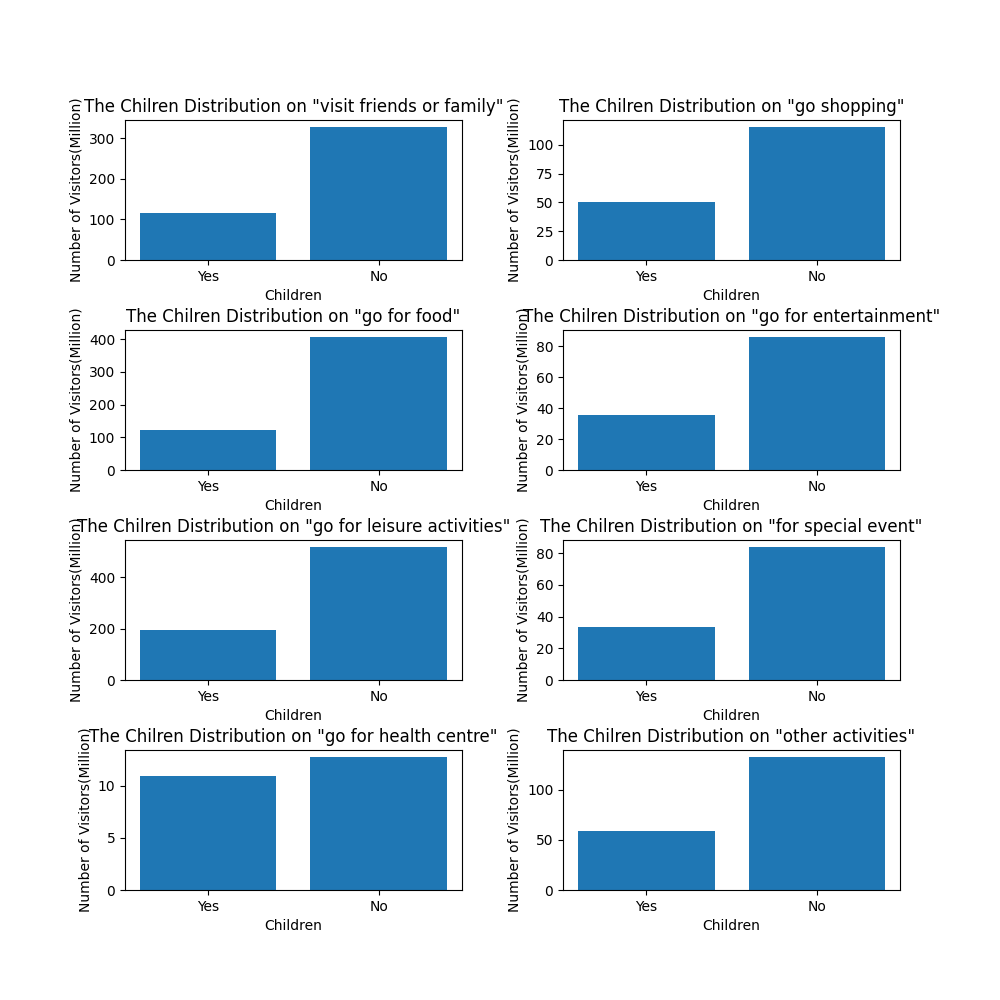
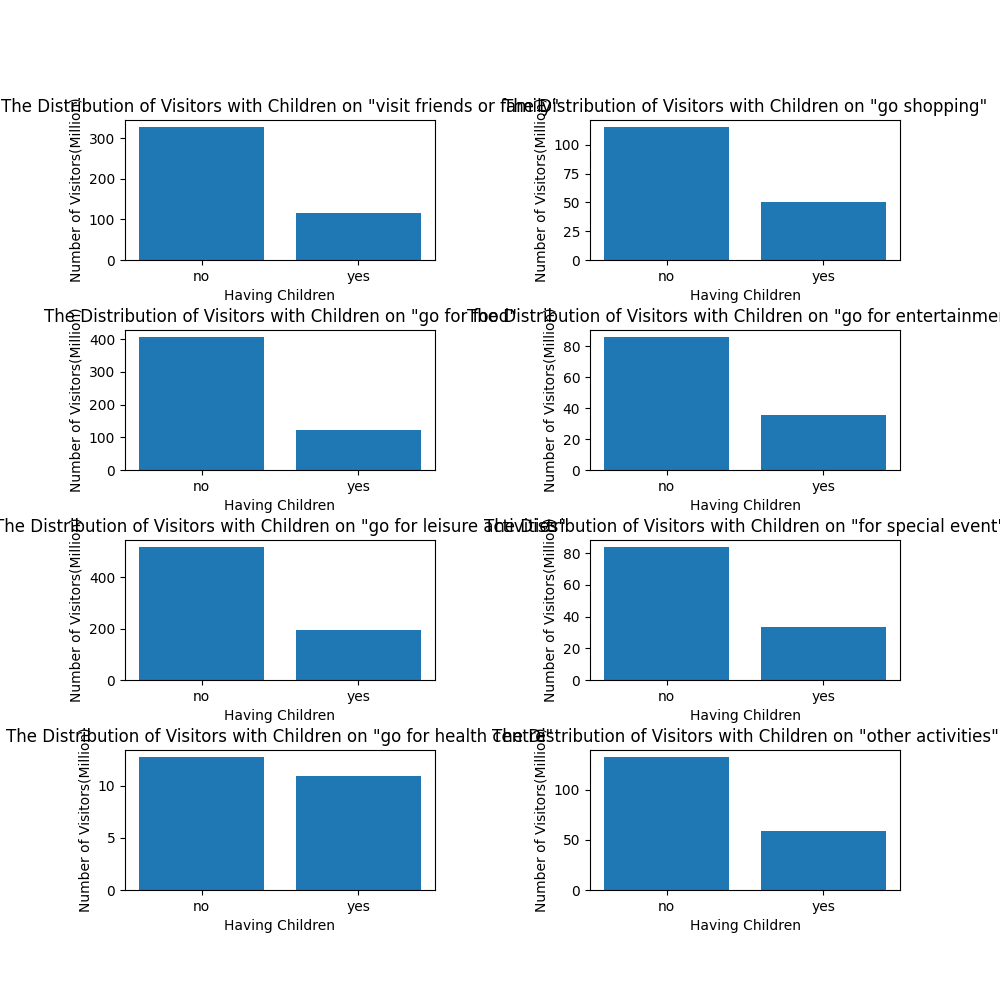
Modify the code to adjust the new read function and add a figure about the relation between the visitors who have children and purposes.

diff --git a/overall_purpose/overallPurpose.py b/overall_purpose/overallPurpose.py
@@ -37,10 +37,7 @@ def classifyPurpose(input):
     else:
         return "other activities"
 #To show the relation between age and purpose
-purpose_data = rfd.readAction('age_action', 'activity')
-#Add a column named total to show the number of people who took different type of actions.
-purpose_data['total'] = purpose_data['16-24'] + purpose_data['25-34'] + purpose_data['35-44'] + \
-                        purpose_data['45-54'] + purpose_data['55-64'] + purpose_data['65+']
+purpose_data = rfd.readAction('action', 'activity', 'age')
 purpose_data['Action'] = purpose_data['Action'].apply(lambda x:classifyPurpose(x))
 all_year_purpose = purpose_data.groupby(['Year', 'Action']).sum().reset_index()
 plt.figure(figsize=(8, 8))
@@ -53,13 +50,13 @@ speicalData=all_year_purpose[(all_year_purpose['Action']=='for special event')]
 healthCentreData=all_year_purpose[(all_year_purpose['Action']=='go for health centre')]
 otherData=all_year_purpose[(all_year_purpose['Action']=='other activities')]
 #Draw the line chart to show the trend of visitors for differnet purposes
-plt.plot(visitData['Year'], visitData['total'], marker='o')
-plt.plot(shoppingData['Year'], speicalData['total'], marker='o')
-plt.plot(foodData['Year'], foodData['total'], marker='o')
-plt.plot(entertainmentData['Year'], entertainmentData['total'], marker='o')
-plt.plot(speicalData['Year'], speicalData['total'], marker='o')
-plt.plot(healthCentreData['Year'], healthCentreData['total'], marker='o')
-plt.plot(otherData['Year'], otherData['total'], marker='o')
+plt.plot(visitData['Year'], visitData['Count'], marker='o')
+plt.plot(shoppingData['Year'], speicalData['Count'], marker='o')
+plt.plot(foodData['Year'], foodData['Count'], marker='o')
+plt.plot(entertainmentData['Year'], entertainmentData['Count'], marker='o')
+plt.plot(speicalData['Year'], speicalData['Count'], marker='o')
+plt.plot(healthCentreData['Year'], healthCentreData['Count'], marker='o')
+plt.plot(otherData['Year'], otherData['Count'], marker='o')
 plt.legend(attributes)
 plt.xlabel('Years')
 plt.ylabel('Number of Visitors(Million)')
@@ -69,20 +66,18 @@ plt.show()
 #Calculate the sum of visitors who took different actions in recent 10 years.
 component=all_year_purpose.groupby('Action').sum().reset_index()
 plt.figure(figsize=(8, 8))
-plt.pie(component['total'], autopct='%0.1f%%', explode=(0, 0, 0.05, 0, 0.05, 0, 0, 0.05))
+plt.pie(component['Count'], autopct='%0.1f%%', explode=(0, 0, 0.05, 0, 0.05, 0, 0, 0.05))
 plt.legend(component['Action'])
 plt.title('The Composition of Visitors for Different Purpose')
 plt.savefig('compositionPurpose.png')
 plt.show()
 plt.figure(figsize=(10, 10))
 #The age distribution for different purposes
-component=component.drop(['Year', 'total'], axis=1)
+component=purpose_data.groupby(['Action', 'Attribute']).sum().reset_index()
 for i in range(1, len(attributes)+1):
     ax=plt.subplot(4, 2, i)
-    list=component[component['Action']==attributes[i-1]].drop('Action', axis=1).values
-    plt.bar(range(len(list[0])), list[0])
-    ax.set_xticks(range(len(list[0])))
-    ax.set_xticklabels(visitor)
+    tem = component[component['Action'] == attributes[i - 1]]
+    plt.bar(tem['Attribute'], tem['Count'])
     plt.title('The Age Distribution on \"'+attributes[i-1]+'\"')
     plt.xlabel('Age')
     plt.ylabel('Number of Visitors(Million)')
@@ -91,22 +86,16 @@ plt.savefig('ageDistribution.png')
 plt.show()
 
 #To show the relation between purpose and if the visitors has cars
-purpose_data = rfd.readAction('cars_action', 'activity')
-visitor=['access to car (1+)', 'no access to car (0)']
-#Add a column named total to show the number of people who took different type of actions.
+purpose_data = rfd.readAction('action', 'activity', 'cars')
 purpose_data['Action'] = purpose_data['Action'].apply(lambda x:classifyPurpose(x))
-all_year_purpose = purpose_data.groupby(['Year', 'Action']).sum().reset_index()
 #Calculate the sum of visitors who took different actions in recent 10 years.
-component=all_year_purpose.groupby('Action').sum().reset_index()
+component=purpose_data.groupby(['Action', 'Attribute']).sum().reset_index()
 #The car holders distribution for different purposes
 plt.figure(figsize=(10, 10))
-component=component.drop(['Year'], axis=1)
 for i in range(1, len(attributes)+1):
     ax=plt.subplot(4, 2, i)
-    list=component[component['Action']==attributes[i-1]].drop('Action', axis=1).values
-    plt.bar(range(len(list[0])), list[0])
-    ax.set_xticks(range(len(list[0])))
-    ax.set_xticklabels(visitor)
+    tem = component[component['Action'] == attributes[i - 1]]
+    plt.bar(tem['Attribute'], tem['Count'])
     plt.title('The Distribution of Car Holder on \"'+attributes[i-1]+'\"')
     plt.xlabel('Car Holder')
     plt.ylabel('Number of Visitors(Million)')
@@ -116,22 +105,16 @@ plt.show()
 
 
 #To show the relation between purpose and the gender of visitors
-purpose_data = rfd.readAction('gender_action', 'activity')
-visitor=['Male', 'Female']
-#Add a column named total to show the number of people who took different type of actions.
+purpose_data = rfd.readAction('action', 'activity', 'gender')
 purpose_data['Action'] = purpose_data['Action'].apply(lambda x:classifyPurpose(x))
-all_year_purpose = purpose_data.groupby(['Year', 'Action']).sum().reset_index()
 #Calculate the sum of visitors who took different actions in recent 10 years.
-component=all_year_purpose.groupby('Action').sum().reset_index()
+component=purpose_data.groupby(['Action', 'Attribute']).sum().reset_index()
 #The car holders distribution for different purposes
 plt.figure(figsize=(10, 10))
-component=component.drop(['Year'], axis=1)
 for i in range(1, len(attributes)+1):
     ax=plt.subplot(4, 2, i)
-    list=component[component['Action']==attributes[i-1]].drop('Action', axis=1).values
-    plt.bar(range(len(list[0])), list[0])
-    ax.set_xticks(range(len(list[0])))
-    ax.set_xticklabels(visitor)
+    tem = component[component['Action'] == attributes[i - 1]]
+    plt.bar(tem['Attribute'], tem['Count'])
     plt.title('The Distribution of Gender on \"'+attributes[i-1]+'\"')
     plt.xlabel('Gender')
     plt.ylabel('Number of Visitors(Million)')
@@ -141,22 +124,16 @@ plt.show()
 
 
 #To show the relation between purpose and the married status of visitors
-purpose_data = rfd.readAction('married_action', 'activity')
-visitor=['Yes', 'No']
-#Add a column named total to show the number of people who took different type of actions.
+purpose_data = rfd.readAction('action', 'activity', 'married')
 purpose_data['Action'] = purpose_data['Action'].apply(lambda x:classifyPurpose(x))
-all_year_purpose = purpose_data.groupby(['Year', 'Action']).sum().reset_index()
 #Calculate the sum of visitors who took different actions in recent 10 years.
-component=all_year_purpose.groupby('Action').sum().reset_index()
+component=purpose_data.groupby(['Action', 'Attribute']).sum().reset_index()
 #The car holders distribution for different purposes
 plt.figure(figsize=(10, 10))
-component=component.drop(['Year'], axis=1)
 for i in range(1, len(attributes)+1):
     ax=plt.subplot(4, 2, i)
-    list=component[component['Action']==attributes[i-1]].drop('Action', axis=1).values
-    plt.bar(range(len(list[0])), list[0])
-    ax.set_xticks(range(len(list[0])))
-    ax.set_xticklabels(visitor)
+    tem = component[component['Action'] == attributes[i - 1]]
+    plt.bar(tem['Attribute'], tem['Count'])
     plt.title('The Distribution of Married Visitors on \"'+attributes[i-1]+'\"')
     plt.xlabel('Married')
     plt.ylabel('Number of Visitors(Million)')
@@ -166,22 +143,16 @@ plt.show()
 
 
 #To show the relation between purpose and the social grades of visitors
-purpose_data = rfd.readAction('social_action', 'activity')
-visitor=['ab', 'c1', 'c2', 'de']
-#Add a column named total to show the number of people who took different type of actions.
+purpose_data = rfd.readAction('action', 'activity', 'social')
 purpose_data['Action'] = purpose_data['Action'].apply(lambda x:classifyPurpose(x))
-all_year_purpose = purpose_data.groupby(['Year', 'Action']).sum().reset_index()
 #Calculate the sum of visitors who took different actions in recent 10 years.
-component=all_year_purpose.groupby('Action').sum().reset_index()
+component=purpose_data.groupby(['Action', 'Attribute']).sum().reset_index()
 #The car holders distribution for different purposes
 plt.figure(figsize=(10, 10))
-component=component.drop(['Year'], axis=1)
 for i in range(1, len(attributes)+1):
     ax=plt.subplot(4, 2, i)
-    list=component[component['Action']==attributes[i-1]].drop('Action', axis=1).values
-    plt.bar(range(len(list[0])), list[0])
-    ax.set_xticks(range(len(list[0])))
-    ax.set_xticklabels(visitor)
+    tem = component[component['Action'] == attributes[i - 1]]
+    plt.bar(tem['Attribute'], tem['Count'])
     plt.title('The Distribution of Social Grades on \"'+attributes[i-1]+'\"')
     plt.xlabel('Social Grade')
     plt.ylabel('Number of Visitors(Million)')
@@ -191,25 +162,43 @@ plt.show()
 
 
 #To show the relation between purpose and the working status of visitors
-purpose_data = rfd.readAction('working_action', 'activity')
+purpose_data = rfd.readAction('action', 'activity', 'working')
 visitor=['employed', 'in education', 'unemployed']
 #Add a column named total to show the number of people who took different type of actions.
 purpose_data['Action'] = purpose_data['Action'].apply(lambda x:classifyPurpose(x))
-all_year_purpose = purpose_data.groupby(['Year', 'Action']).sum().reset_index()
 #Calculate the sum of visitors who took different actions in recent 10 years.
-component=all_year_purpose.groupby('Action').sum().reset_index()
+component=purpose_data.groupby(['Action', 'Attribute']).sum().reset_index()
 #The car holders distribution for different purposes
 plt.figure(figsize=(10, 10))
 component=component.drop(['Year'], axis=1)
 for i in range(1, len(attributes)+1):
     ax=plt.subplot(4, 2, i)
-    list=component[component['Action']==attributes[i-1]].drop('Action', axis=1).values
-    plt.bar(range(len(list[0])), list[0])
-    ax.set_xticks(range(len(list[0])))
+    tem = component[component['Action'] == attributes[i - 1]]
+    plt.bar(range(len(tem['Attribute'])), tem['Count'])
+    ax.set_xticks(range(len(tem['Attribute'])))
     ax.set_xticklabels(visitor)
     plt.title('The Distribution of Working Status on \"'+attributes[i-1]+'\"')
     plt.xlabel('Working Status')
     plt.ylabel('Number of Visitors(Million)')
     plt.subplots_adjust(hspace=0.5, wspace=0.5)
 plt.savefig('workingDistribution.png')
+plt.show()
+
+#To show the relation between purpose and the working status of visitors
+purpose_data = rfd.readAction('action', 'activity', 'children')
+purpose_data['Action'] = purpose_data['Action'].apply(lambda x:classifyPurpose(x))
+#Calculate the sum of visitors who took different actions in recent 10 years.
+component=purpose_data.groupby(['Action', 'Attribute']).sum().reset_index()
+#The car holders distribution for different purposes
+plt.figure(figsize=(10, 10))
+component=component.drop(['Year'], axis=1)
+for i in range(1, len(attributes)+1):
+    ax=plt.subplot(4, 2, i)
+    tem = component[component['Action'] == attributes[i - 1]]
+    plt.bar(tem['Attribute'], tem['Count'])
+    plt.title('The Distribution of Visitors with Children on \"'+attributes[i-1]+'\"')
+    plt.xlabel('Having Children')
+    plt.ylabel('Number of Visitors(Million)')
+    plt.subplots_adjust(hspace=0.5, wspace=0.5)
+plt.savefig('childrenDistribution.png')
 plt.show()

diff --git a/readFromDatabase.py b/readFromDatabase.py
@@ -8,6 +8,6 @@ def readFrom(tableName, type):
     sql = 'select * from ' + tableName + ' where Type=\"'+type+'\";'
     return pd.read_sql_query(sql, connection)
 
-def readAction(tableName, type):
-    sql = 'select * from ' + tableName + ' where Type = \'' + type + '\';'
+def readAction(tableName, type, visitor):
+    sql = 'select * from ' + tableName + ' where Type= \'' + type + '\' and Visitor= \'' + visitor +'\';'
     return pd.read_sql_query(sql, connection)
